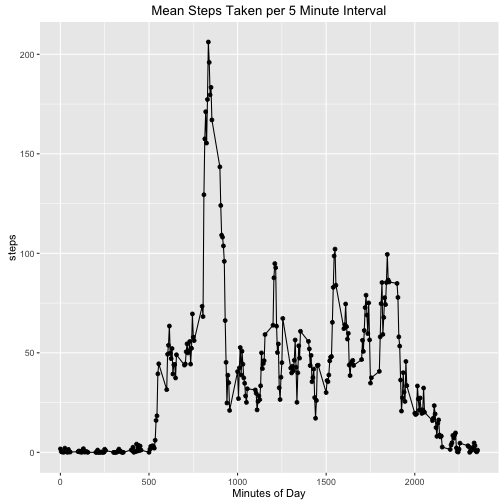
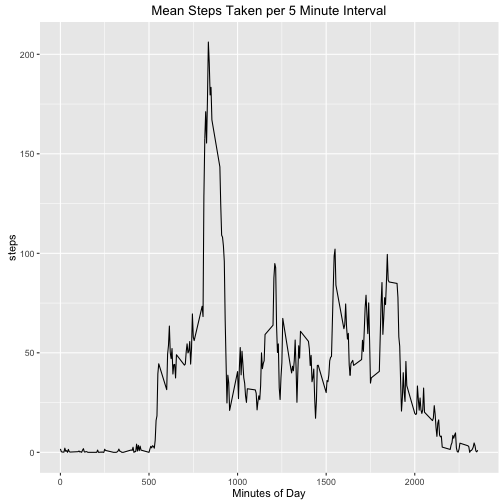
got some markdown; checking it

diff --git a/PA1_template.md b/PA1_template.md
@@ -60,7 +60,7 @@ average_steps_by_interval <- aggregate(steps~interval, data=activity, FUN="mean"
 maximum_average_steps_taken <- average_steps_by_interval[average_steps_by_interval$steps==max(average_steps_by_interval$steps),]
 maximum_average_steps_taken$interval <- as.factor(sprintf("%04d",maximum_average_steps_taken$interval))
 daily_averages_chart <- ggplot(average_steps_by_interval, aes(interval,steps))
-daily_averages_chart + geom_path()  + geom_point() + ggtitle("Mean Steps Taken per 5 Minute Interval") + xlab("Minutes of Day")
+daily_averages_chart + geom_path() + ggtitle("Mean Steps Taken per 5 Minute Interval") + xlab("Minutes of Day")
 ```
 
 ![plot of chunk unnamed-chunk-6](figure/unnamed-chunk-6-1.png)
